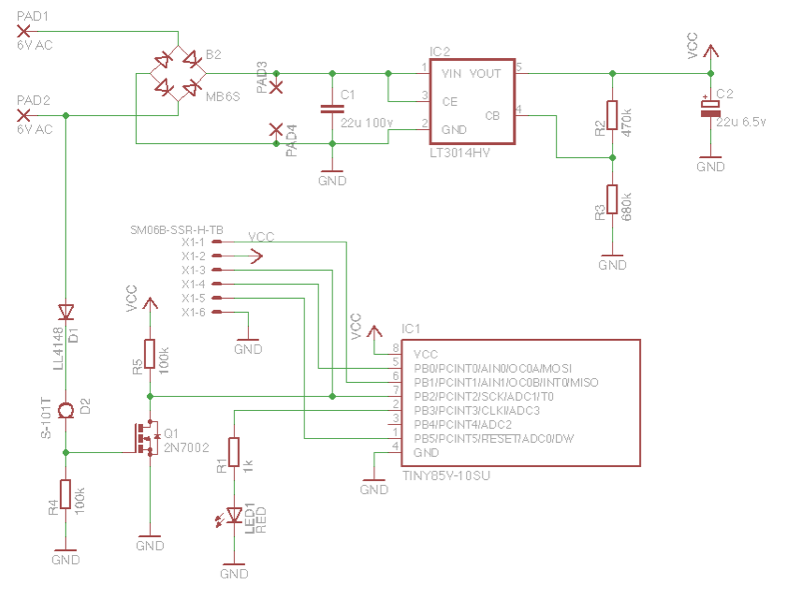
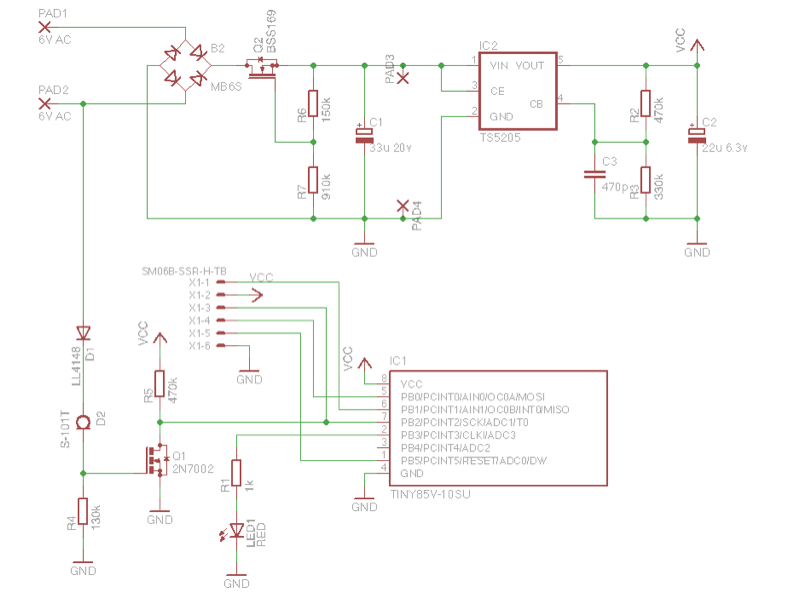
added high voltage protection MOSFET

diff --git a/docs/Hardware.md b/docs/Hardware.md
@@ -6,11 +6,14 @@
 
 The Attiny85 is a "V" version which means it can run on lower voltages (2.1 Volts in this setup). It has 8 kB of FLASH, 512 bytes of RAM and a 512 byte EEPROM. The Calibrated Internal Oscillator is running at 8 MHz with a prescaler of 8. This leads to a clock frequency of 1 MHz. 
 
-Brown-out detection is set to 1.8 Volts using the fuses of the Attiny85. It is very important to enable brown-out detection or otherwise the EEPROM content will get corrupt. Brown-out detection makes sure any ongoing EEPROM write will get done in case the power starts failing. 
+Brown-out detection is set to 1.8 Volts using the fuses of the Attiny85. It is very important to enable brown-out detection or otherwise the EEPROM content will get corrupt. Brown-out detection makes sure any ongoing EEPROM write will get done in case the power starts failing.
 
-The LDO voltage regulator has an enable pin which shuts down the regulator when the input voltage goes below 1.3 Volts. In shutdown mode the voltage regulator uses (almost) no power.
+The transistor Q2 is a depletion mode MOSFET which by default is conductive without a voltage at the gate. It has a low initial resistance of only about 6 Ohm. By applying a negative Voltage at the gate the conductivity is reduced. It's job is to keep any voltages greater than 20 Volts away from the LDO voltage regulator
+and at the same time provide as little resistance as possible at lower voltages.
 
-The AC voltage of the hub generator is also rectified by a single diode. The **C**urrent **R**egulating **D**iode (CRD) makes sure the gate source voltage of the transistor is not exceeded. The cleaned up, voltage adjusted, inverted signal at the drain is then feed into counter/timer 0 of the tiny.
+The LDO voltage regulator has an enable pin which shuts down the regulator when the input voltage goes below 2 Volts. In shutdown mode the voltage regulator uses (almost) no power.
+
+The AC voltage of the hub generator is also rectified by a single diode. The **C**urrent **R**egulating **D**iode (CRD) makes sure the gate source voltage of the transistor Q1 is not exceeded. The cleaned up, voltage adjusted, inverted signal at the drain is then feed into counter/timer 0 of the tiny.
 
 To get some optical feedback of the odometer working port 3 of the tiny is connected to a LED.
 
@@ -23,7 +26,7 @@ There are two additional pads on the input side of the voltage regulator. These 
 |Part    |Value              | Package        |
 |:------:|:-----------------:|:--------------:|
 |B2      | MB6S              | SOIC-4         |
-|C1      | 22u 100v Ceramic  | C2220          |
+|C1      | 33u 20v Tantalum  | SMC_C          |
 |C2      | 22u 6.5v Tantalum | SMC_A          |
 |D1      | LL4148            | SOD80C         |
 |D2      | S-101T            | S series       |
@@ -31,11 +34,14 @@ There are two additional pads on the input side of the voltage regulator. These 
 |IC2     | LT3014            | SOT25          |
 |LED1    | RED               | 0805           |
 |Q1      | 2N7002            | SOT23          |
+|Q2      | BSS169            | SOT23          |
 |R1      | 1k                | 0805           |
 |R2      | 470k              | 0805           |
-|R3      | 680k              | 0805           |
-|R4      | 100k              | 0805           |
-|R5      | 100k              | 0805           |
+|R3      | 330k              | 0805           |
+|R4      | 130k              | 0805           |
+|R5      | 470k              | 0805           |
+|R6      | 150k              | 0805           |
+|R7      | 910k              | 0805           |
 |X1      | SM06B-SSR-H-TB    | SM06B-SSR-H-TB |
 
 ## ISP Pinout
